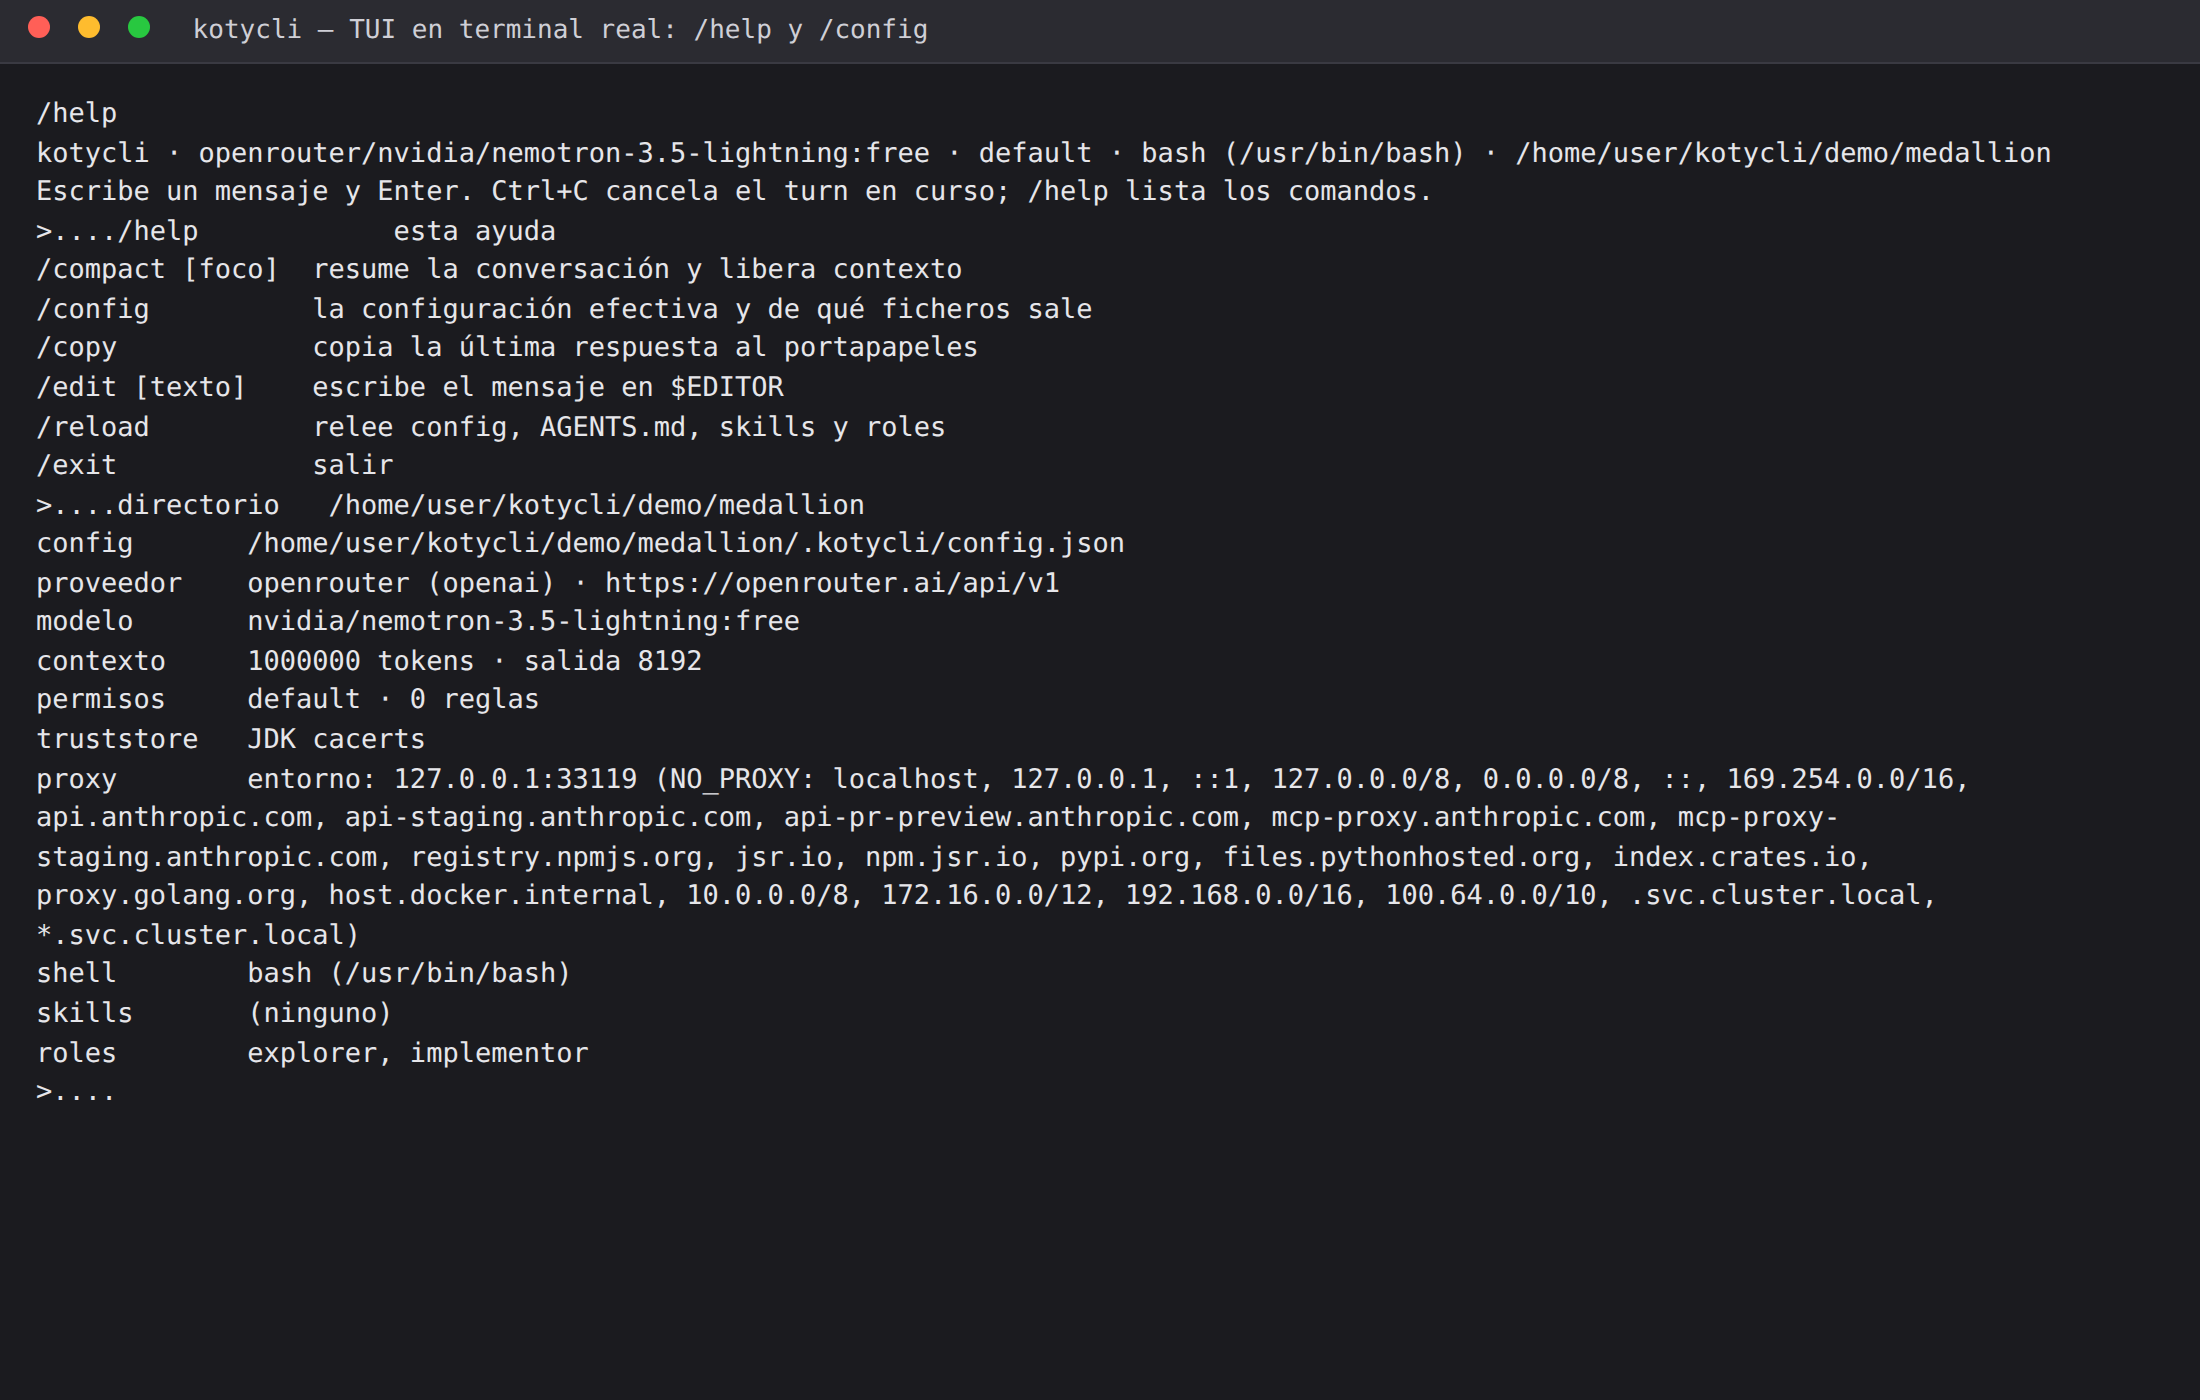
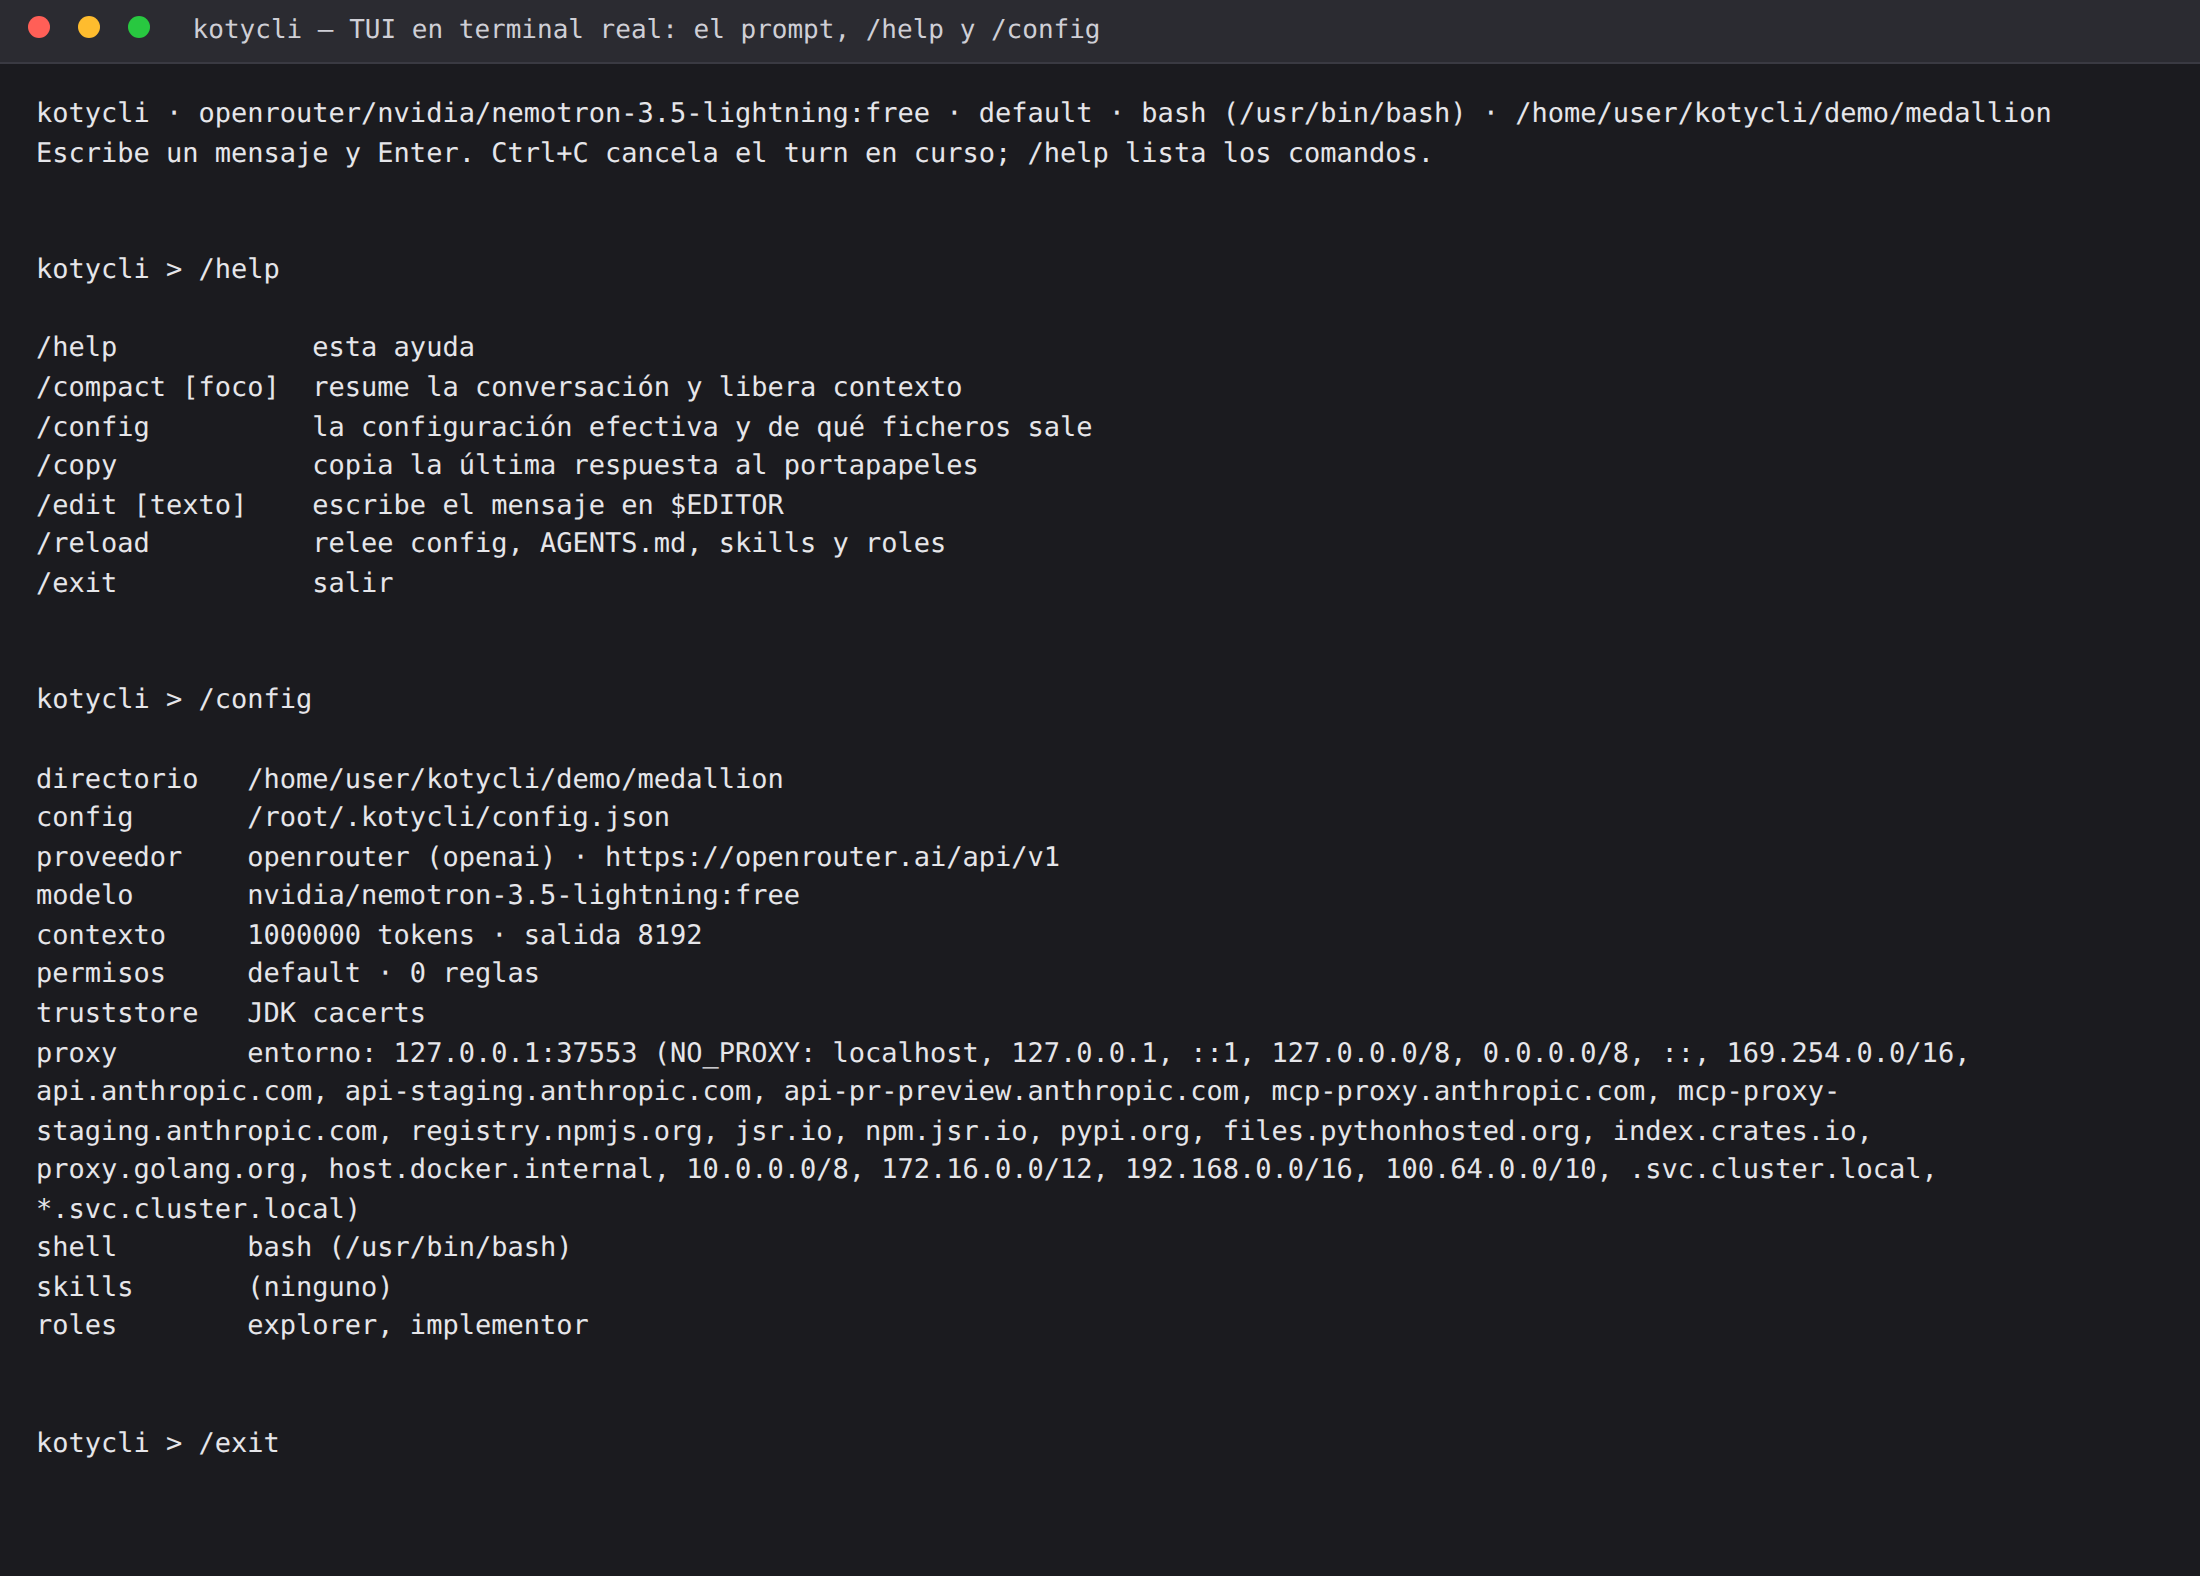
Poner el nombre en el prompt: `kotycli >` en vez de un `>` pelado
Un `>` solo no se distingue del prompt del shell, y en un transcript
append-only —que es un log corrido— eso importa. En cian en la TUI; en
`--plain` el mismo texto sin ANSI, que ahí es la regla.

De paso, al capturar la TUI en un PTY se aclaró de dónde salían los `>....`
de los pantallazos: el PTY que abre `script` no tiene tamaño, y sin tamaño
JLine trunca el prompt y lo rellena con puntos. Era el montaje de captura, no
kotycli. `demo/capture.sh` fija el tamaño con `stty` y las capturas ya salen
como las ve un usuario.

Claude-Session: https://claude.ai/code/session_01DPXpdPgYNkd2WiGWjw8Evs

diff --git a/src/main/kotlin/com/softbenur/kotycli/frontend/tui/Tui.kt b/src/main/kotlin/com/softbenur/kotycli/frontend/tui/Tui.kt
@@ -42,13 +42,21 @@ class Tui(private val session: Session, private val banner: String) {
     private val reader: LineReader = LineReaderBuilder.builder().terminal(terminal).completer(completer).build()
     private val out get() = terminal.writer()
 
+    /** El transcript es un log corrido: sin el nombre delante, el prompt se confunde con el del shell. */
+    private val prompt: String = AttributedStringBuilder()
+        .style(AttributedStyle.DEFAULT.foreground(AttributedStyle.CYAN))
+        .append("\nkotycli")
+        .style(AttributedStyle.DEFAULT)
+        .append(" > ")
+        .toAnsi(terminal)
+
     suspend fun run() = coroutineScope {
         val printer = subscribe(this)
         styled(banner, AttributedStyle.DEFAULT.faint())
         styled("Escribe un mensaje y Enter. Ctrl+C cancela el turn en curso; /help lista los comandos.", AttributedStyle.DEFAULT.faint())
         while (true) {
             val line = try {
-                withContext(Dispatchers.IO) { reader.readLine("\n> ") }
+                withContext(Dispatchers.IO) { reader.readLine(prompt) }
             } catch (e: UserInterruptException) {
                 continue
             } catch (e: EndOfFileException) {

diff --git a/src/main/kotlin/com/softbenur/kotycli/frontend/plain/Plain.kt b/src/main/kotlin/com/softbenur/kotycli/frontend/plain/Plain.kt
@@ -43,7 +43,7 @@ class Plain(
         val printer = subscribe(this)
         out.println("kotycli (--plain). Escribe un mensaje y Enter; /help lista los comandos.")
         while (true) {
-            out.print("> ")
+            out.print("kotycli > ") // sin ANSI: en `--plain` el prompt también es texto pelado
             out.flush()
             val line = withContext(Dispatchers.IO) { input.readLine() } ?: break
             if (line.isBlank()) continue

diff --git a/demo/tools/shot.py b/demo/tools/shot.py
@@ -24,10 +24,7 @@ def clean(raw: str) -> str:
     text = OSC.sub("", text)
     text = NON_SGR.sub("", text)
     text = OTHER_ESC.sub("", text)
-    # Al alimentar el PTY por tubería, JLine no puede hacer eco real de lo tecleado y deja puntos
-    # tras el prompt. Es un artefacto del montaje de captura, no algo que vea un usuario.
-    text = re.sub(r"(?m)^> \.{2,}", "> ", text.replace("\r\n", "\n").replace("\r", ""))
-    return re.sub(r"(?m)^>\.{2,}", "> ", text)
+    return text.replace("\r\n", "\n").replace("\r", "")
 
 
 def main(src: Path, dst: Path, title: str) -> None:

diff --git a/demo/README.md b/demo/README.md
@@ -4,7 +4,7 @@ Prueba de kotycli con un proveedor de verdad (OpenRouter, `nvidia/nemotron-3.5-l
 encargándole un proyecto de ETL con arquitectura medallion en PySpark local.
 
 Doble objetivo: **tener el proyecto** y, sobre todo, **ver qué se rompe en kotycli** cuando lo maneja
-un modelo real en un terminal real. Se rompieron dos cosas; las dos están arregladas y con test.
+un modelo real en un terminal real. Se rompieron dos cosas y una tercera molestaba; las tres están arregladas.
 
 ## El token
 
@@ -94,7 +94,7 @@ al `left_semi` ya no queda ninguno. Es un defecto del generador —la suciedad d
 ve solo porque el informe cuenta paso a paso en vez de dar un total. Verificado a mano: tras silver no
 quedan huérfanos, ni duplicados, ni cantidades malas.
 
-## Los dos fallos de kotycli que salieron
+## Lo que salió y se arregló
 
 ### 1. La TUI se comía los acentos si el locale no es UTF-8
 
@@ -107,6 +107,11 @@ JLine**, y desde JLine 3.25 ese writer usa `stdoutEncoding`, un ajuste distinto 
 el charset interno del terminal, no el del writer).
 
 Arreglado en `Tui.terminalBuilder()`, con test en `TerminalEncodingTest`.
+
+### 3. El prompt no decía dónde estabas
+
+Era un `>` pelado, indistinguible del prompt del shell. Ahora es `kotycli >`, con el nombre en cian en
+la TUI y en texto pelado en `--plain`, que no usa ANSI por definición.
 
 ![TUI en terminal real](screenshots/01-tui-comandos.png)
 
@@ -162,7 +167,9 @@ Transcripciones completas en `logs/`, una por tanda:
 | `02-bronze.log` | Capa bronze | OK, 128k tokens, 607 s |
 | `03-silver.log` | Capa silver (1er intento) | El modelo no contestó: 5.9k tokens, 69 s |
 | `03b-silver.log` | Capa silver (2º intento) | OK, pero acabó en 429 |
-| `tui-help-config.ansi` | Captura ANSI de la TUI | Origen del pantallazo 01 |
+| `tui-prompt.ansi` | Captura ANSI de la TUI | Origen del pantallazo 01 |
 
-Las capturas ANSI se tomaron alimentando el PTY por tubería, así que el eco de lo tecleado aparece
-donde no lo pondría una persona escribiendo en vivo.
+Las capturas de la TUI se toman con `capture.sh`, que abre un PTY de verdad con `script`. El `stty`
+que hay dentro no es decorativo: el PTY que abre `script` no tiene tamaño, y sin tamaño **JLine trunca
+el prompt y lo rellena con puntos**. Costó un rato entender que ese `>....` era el montaje de captura
+y no kotycli.

diff --git a/docs/architecture/08-frontends.md b/docs/architecture/08-frontends.md
@@ -8,7 +8,9 @@ El transcript fluye hacia arriba como un log. Solo la zona del prompt y una lín
 
 ## TUI (por defecto)
 
-Terminal nativo con JLine para el prompt, el historial y el completado.
+Terminal nativo con JLine para el prompt, el historial y el completado. El prompt es `kotycli > ` (el
+nombre en cian): un `>` pelado no se distingue del prompt del shell, y en un transcript append-only, que
+es un log corrido, eso importa. En `--plain` va el mismo texto sin ANSI.
 
 Cómo se pinta cada evento:
 
